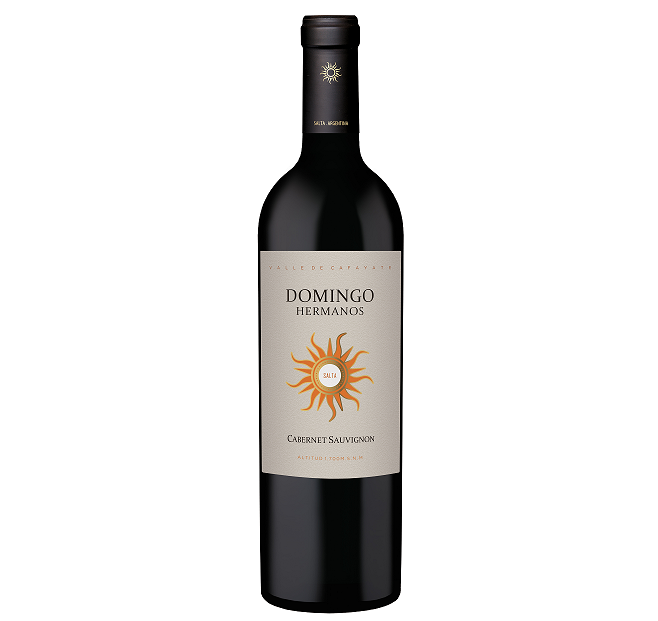
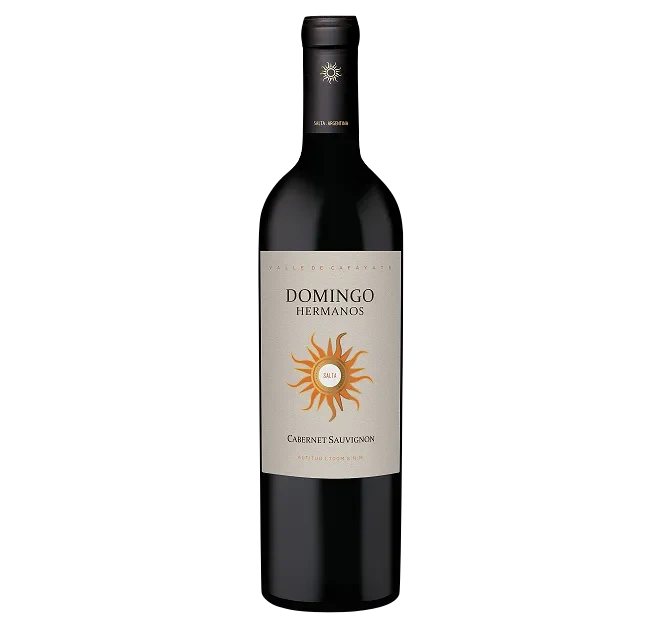
modificacion fotos

diff --git a/main.js b/main.js
@@ -1,21 +1,21 @@
 const productos = [
-    {id:1, variedad: "MALBEC", precio: 950, imagen:"./imagenes/malbec.jpg"},
-    {id:2, variedad: "MALBEC RESERVA", precio: 1300, imagen:"./imagenes/malbecReserva.jpg"},
+    {id:1, variedad: "MALBEC", precio: 950, imagen:"./imagenes/malbec.png"},
+    {id:2, variedad: "MALBEC RESERVA", precio: 1300, imagen:"./imagenes/malbecReserva.png"},
     {id:3, variedad: "CABERNET SAUVIGNON", precio: 1200, imagen:"./imagenes/cabernet.png"},
-    {id:4, variedad: "CABERNET SAUVIGNON RESERVA", precio: 1800, imagen:"./imagenes/cabernetReserva.jpg"},
-    {id:5, variedad: "PINOT NOIR", precio: 2000, imagen:"./imagenes/pinot.jpg"},
-    {id:6, variedad: "RED BLEND", precio: 1250, imagen:"./imagenes/redBlend.jpg"},
+    {id:4, variedad: "CABERNET SAUVIGNON RESERVA", precio: 1800, imagen:"./imagenes/cabernetReserva.png"},
+    {id:5, variedad: "PINOT NOIR", precio: 2000, imagen:"./imagenes/pinot.png"},
+    {id:6, variedad: "RED BLEND", precio: 1250, imagen:"./imagenes/redBlend.png"},
     {id:7, variedad: "ROSADO", precio: 1150, imagen:"./imagenes/rosado.png"},
-    {id:8, variedad: "BLANCO DULCE", precio: 1000, imagen:"./imagenes/blancoDulce.jpg"},
-    {id:9, variedad: "SAUVIGNON BLANC", precio: 850, imagen:"./imagenes/sauvignonBlanc.jpg"},
-    {id:10, variedad: "TORRONTES", precio: 750, imagen:"./imagenes/torrontes.jpg"},
-    {id:11, variedad: "ESPUMOSO BRUT NATURE", precio: 2200, imagen:"./imagenes/espumoso.jpg"},
-    {id:12, variedad: "ESPUMOSO DULCE", precio: 1500, imagen:"./imagenes/espumosoDulce.jpg"},
+    {id:8, variedad: "BLANCO DULCE", precio: 1000, imagen:"./imagenes/blancoDulce.png"},
+    {id:9, variedad: "SAUVIGNON BLANC", precio: 850, imagen:"./imagenes/sauvignonBlanc.png"},
+    {id:10, variedad: "TORRONTES", precio: 750, imagen:"./imagenes/torrontes.png"},
+    {id:11, variedad: "ESPUMOSO BRUT NATURE", precio: 2200, imagen:"./imagenes/espumoso.png"},
+    {id:12, variedad: "ESPUMOSO DULCE", precio: 1500, imagen:"./imagenes/espumosoDulce.png"},
 ];
 function Usuario (nombre, edad) {
     this.nombre = nombre;
     this.edad = edad;
-}
+};
 let carrito = JSON.parse(localStorage.getItem("carrito")) || [];
 let total = 0;
 let main = document.querySelector("#main");
@@ -27,7 +27,7 @@ function nuevoCliente() {
     let edad = document.querySelector("#age").value;
     let cliente = new Usuario(nombre, edad);
     (cliente.edad < 18) ? menorEdad(cliente) : saludo(cliente);
-}
+};
 function menorEdad(cliente){
     let formulario = document.querySelector("#inicio");
     formulario.innerHTML = "";
@@ -43,7 +43,7 @@ function menorEdad(cliente){
         text: 'El ingreso solo está permitido para mayores de 18 años', 
         allowOutsideClick: false,       
       })
-}
+};
 function saludo(cliente) {
     let form = document.querySelector("#inicio");
     form.innerHTML = "";
@@ -68,7 +68,7 @@ function saludo(cliente) {
     nuevoContenido.className = "ingreso";
     main.appendChild(nuevoContenido);
     sessionStorage.setItem("cliente",JSON.stringify(cliente));    
-}
+};
 function ingresoTienda(){
     let contenido = document.querySelector(".ingreso");
     contenido.className = "row";
@@ -137,10 +137,10 @@ function agregarCarrito(id){
             title: 'Producto agregado al carrito'
           })         
     }
-}
+};
 function storage(carrito){
     localStorage.setItem("carrito",JSON.stringify(carrito));
-}
+};
 function mostrarCarrito(){
     main.innerHTML = "";
     const divCarrito = document.createElement("section");
@@ -182,7 +182,7 @@ function mostrarCarrito(){
         divCarrito.appendChild(carritoVacio);
     }
 
-}
+};
 function productDelete(id){  
     Swal.fire({
         title: '¿Eliminar producto?',
@@ -207,7 +207,7 @@ function productDelete(id){
             mostrarCarrito();        
         }
     }) 
-}
+};
 function borrarCarrito(){
     Swal.fire({
         title: '¿Estas seguro/a?',
@@ -232,7 +232,7 @@ function borrarCarrito(){
             mostrarCarrito();
         }
     })    
-}
+};
 function seguirComprando(){
     main.innerHTML = "";
     let section = document.createElement("section")
@@ -250,7 +250,7 @@ function seguirComprando(){
             </div>`;    
         section.appendChild(card);
     });
-}
+};
 function finalizarCompra(){
     const swalWithBootstrapButtons = Swal.mixin({
         customClass: {
@@ -306,7 +306,7 @@ function finalizarCompra(){
           seguirComprando()
         }
       })          
-}
+};
 function saludoFinal(){
     let mail = document.querySelector(".form-control").value;
     let usuario = JSON.parse(sessionStorage.getItem("cliente"));
@@ -323,4 +323,4 @@ function saludoFinal(){
     storage(carrito); 
     cartBoton = document.querySelector("#btnCart");
     cartBoton.remove();
-}
+};

diff --git a/style.css b/style.css
@@ -13,7 +13,7 @@ main{
     padding: 20px;
     background-color: #838181;
     color: black;
-    min-height: 62vh;    
+    min-height: 65vh;    
 }      
 header{    
     padding: 20px;
@@ -44,7 +44,7 @@ footer{
 }
 .titulo {
     color: black;
-    font: normal 7rem Varela Round, sans-serif;    
+    font: normal 6rem Varela Round, sans-serif;    
     left: 0;
     letter-spacing: 5px;   
     text-align: center;
@@ -144,6 +144,10 @@ h2{
     border: 2px solid black;
     text-align: center;    
 }
+.card-img-top{
+  width: 30vh;
+  height: 40vh;
+}
 .cart-design{
     background-color: #838181;    
     text-align: center;  
@@ -167,7 +171,8 @@ h2{
     text-align: center;
 }
 .cart-img{
-    width: 20%;
+    width: 25vh;
+    height: 25vh;
     border-radius: 5px;
     margin: 5px;
 }
@@ -184,4 +189,14 @@ span{
     border: 2px solid black;
     width: 600px;
     margin: 20px;
+}
+@media screen and (max-width:750px){
+  .titulo{
+    font-size: 4rem;
+  }
+}
+@media screen and (max-width:330px){
+  .titulo{
+    font-size: 2rem;
+  }
 }
